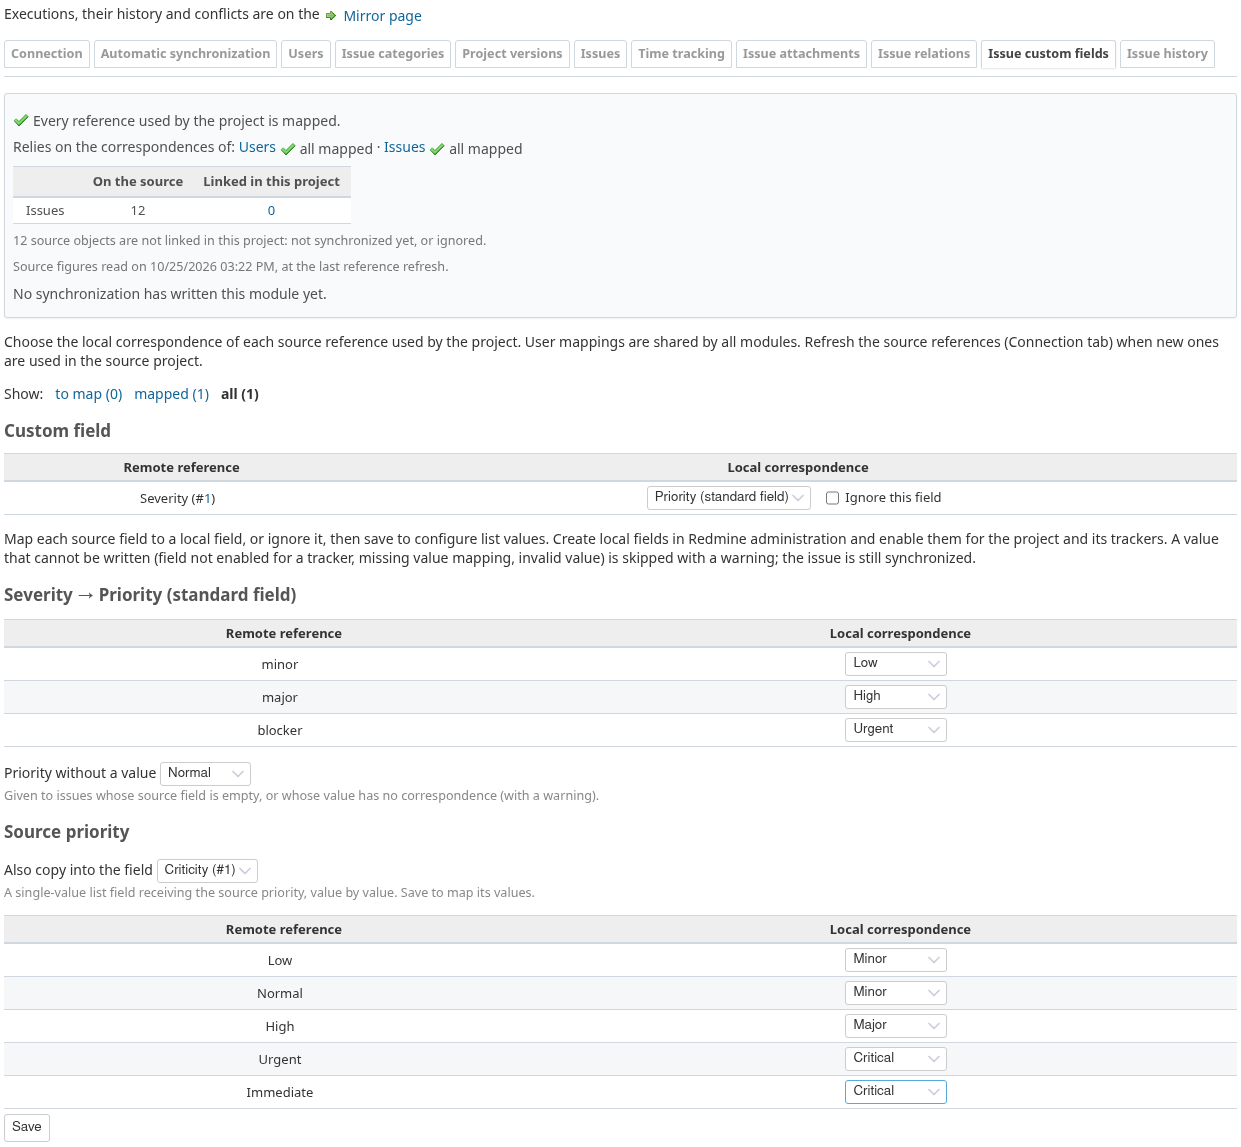
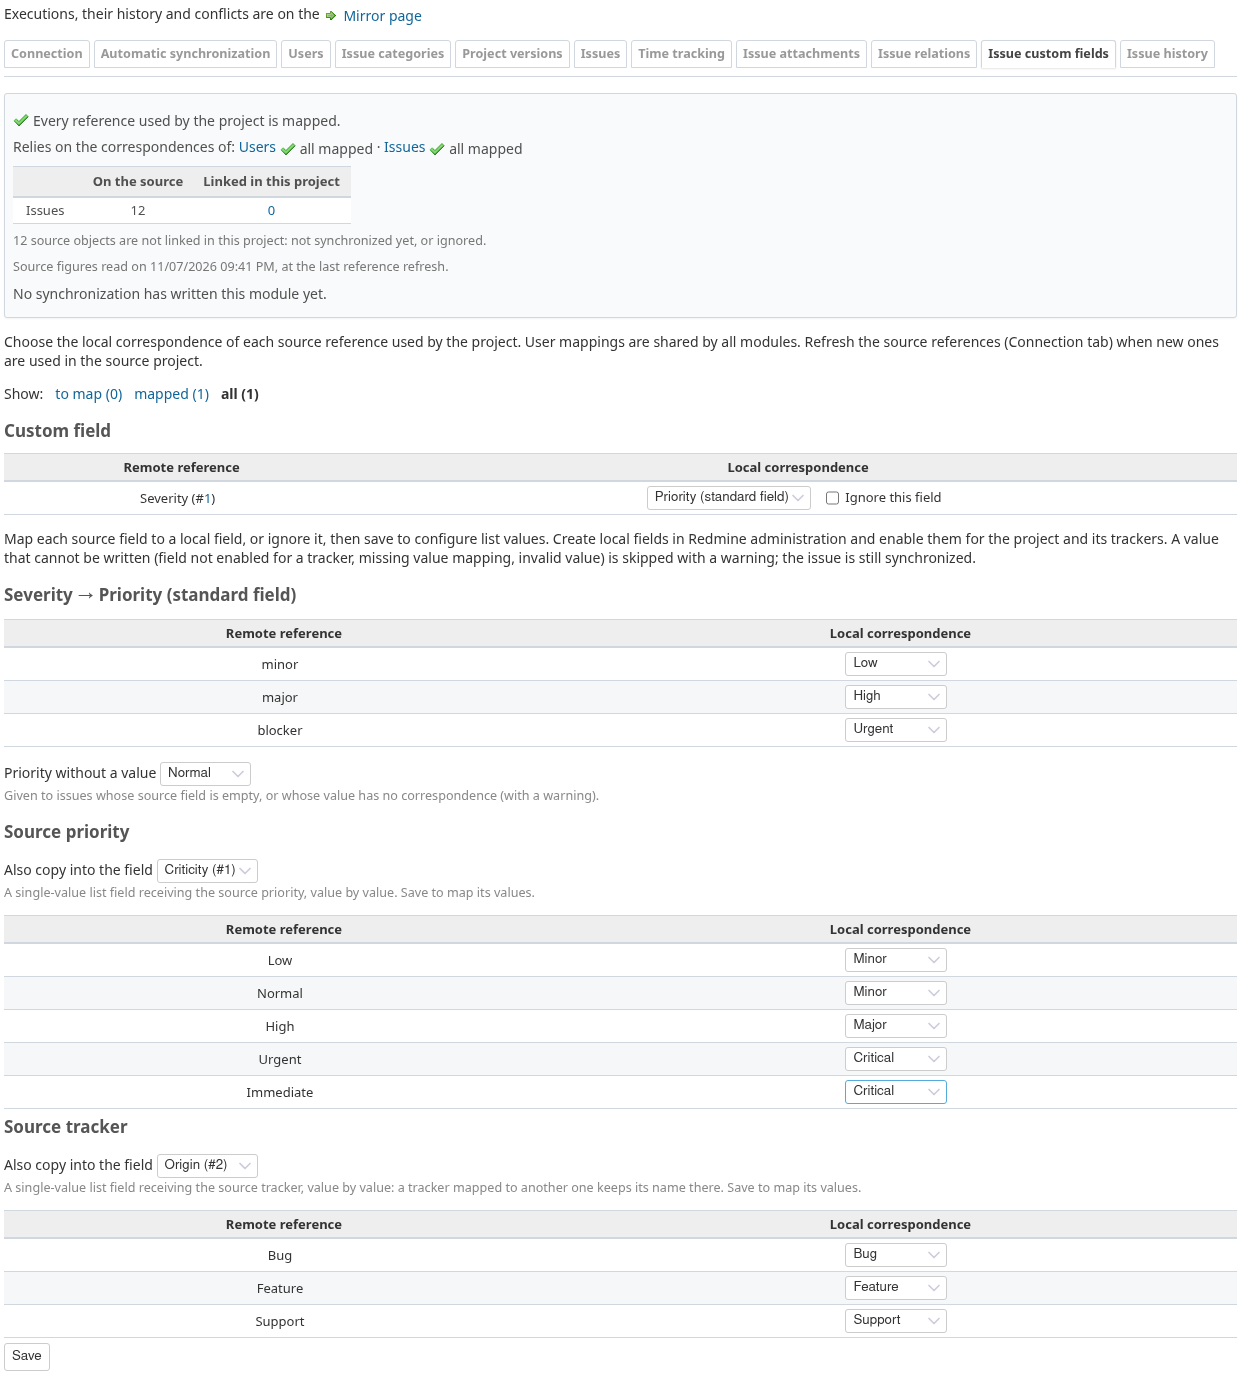
Propose the source tracker names after choosing the field
Choosing the field saves empty values, which stopped the proposal of the values
named like the source trackers. The configuration guide now walks through the
source tracker copy and checks the imported value.

diff --git a/test/documentation/configuration_test.rb b/test/documentation/configuration_test.rb
@@ -150,6 +150,7 @@ class MirrorConfigurationDocumentationTest < ApplicationSystemTestCase
     open_module_tab "issue_custom_fields"
     within("#mirror-table-custom_field") { find("tbody tr", text: "Severity").find("select").select("Priority (standard field)") }
     select find("#mirror-priority-field option", text: /\ACriticity/).text, from: "mirror-priority-field"
+    select find("#mirror-tracker-field option", text: /\AOrigin/).text, from: "mirror-tracker-field"
     click_button "Save"
     assert_selector "#flash_notice"
     severity = project.mirror_reference_mappings.find_by!(reference_type: "custom_field", mode: "priority").source_id
@@ -160,6 +161,8 @@ class MirrorConfigurationDocumentationTest < ApplicationSystemTestCase
     within("#mirror-source-priority-values") do
       { "Low" => "Minor", "Normal" => "Minor", "High" => "Major", "Urgent" => "Critical", "Immediate" => "Critical" }.each { |priority, value| map_row(priority, value) }
     end
+    # Values named like the source trackers are proposed.
+    within("#mirror-source-tracker-values") { assert_equal "Bug", find("td", text: "Bug", exact_text: true).ancestor("tr").find("select").value }
     screenshot "40-cross-field-mappings", "#tab-content-mirror"
     click_button "Save"
     assert_selector "#flash_notice"
@@ -199,6 +202,7 @@ class MirrorConfigurationDocumentationTest < ApplicationSystemTestCase
     first, second, _, fourth = project.issues.order(:id).first(4)
     assert_equal [["Urgent", "Major"], ["High", "Minor"], ["Normal", "Minor"]],
                  [first, second, fourth].map { |issue| [issue.priority.name, issue.custom_field_value(criticity)] }
+    assert_equal "Bug", first.custom_field_value(IssueCustomField.find_by!(name: "Origin"))
     raised = first.journals.find_by!(notes: "Mirror fixture: severity raised")
     assert_equal [["attr", "priority_id", IssuePriority.find_by!(name: "Low").id.to_s, first.priority_id.to_s], ["cf", criticity.id.to_s, "Minor", "Major"]],
                  raised.details.order(:id).map { |detail| [detail.property, detail.prop_key, detail.old_value, detail.value] }
@@ -511,6 +515,9 @@ class MirrorConfigurationDocumentationTest < ApplicationSystemTestCase
     end
     # Receives the source priority (step 8, cross-field correspondences).
     IssueCustomField.create!(name: "Criticity", field_format: "list", possible_values: %w[Minor Major Critical],
+                             is_for_all: true, is_filter: true, trackers: Tracker.all)
+    # Receives the source tracker (step 8b): a remapped tracker keeps its name there.
+    IssueCustomField.create!(name: "Origin", field_format: "list", possible_values: %w[Bug Feature Support],
                              is_for_all: true, is_filter: true, trackers: Tracker.all)
   end
 
